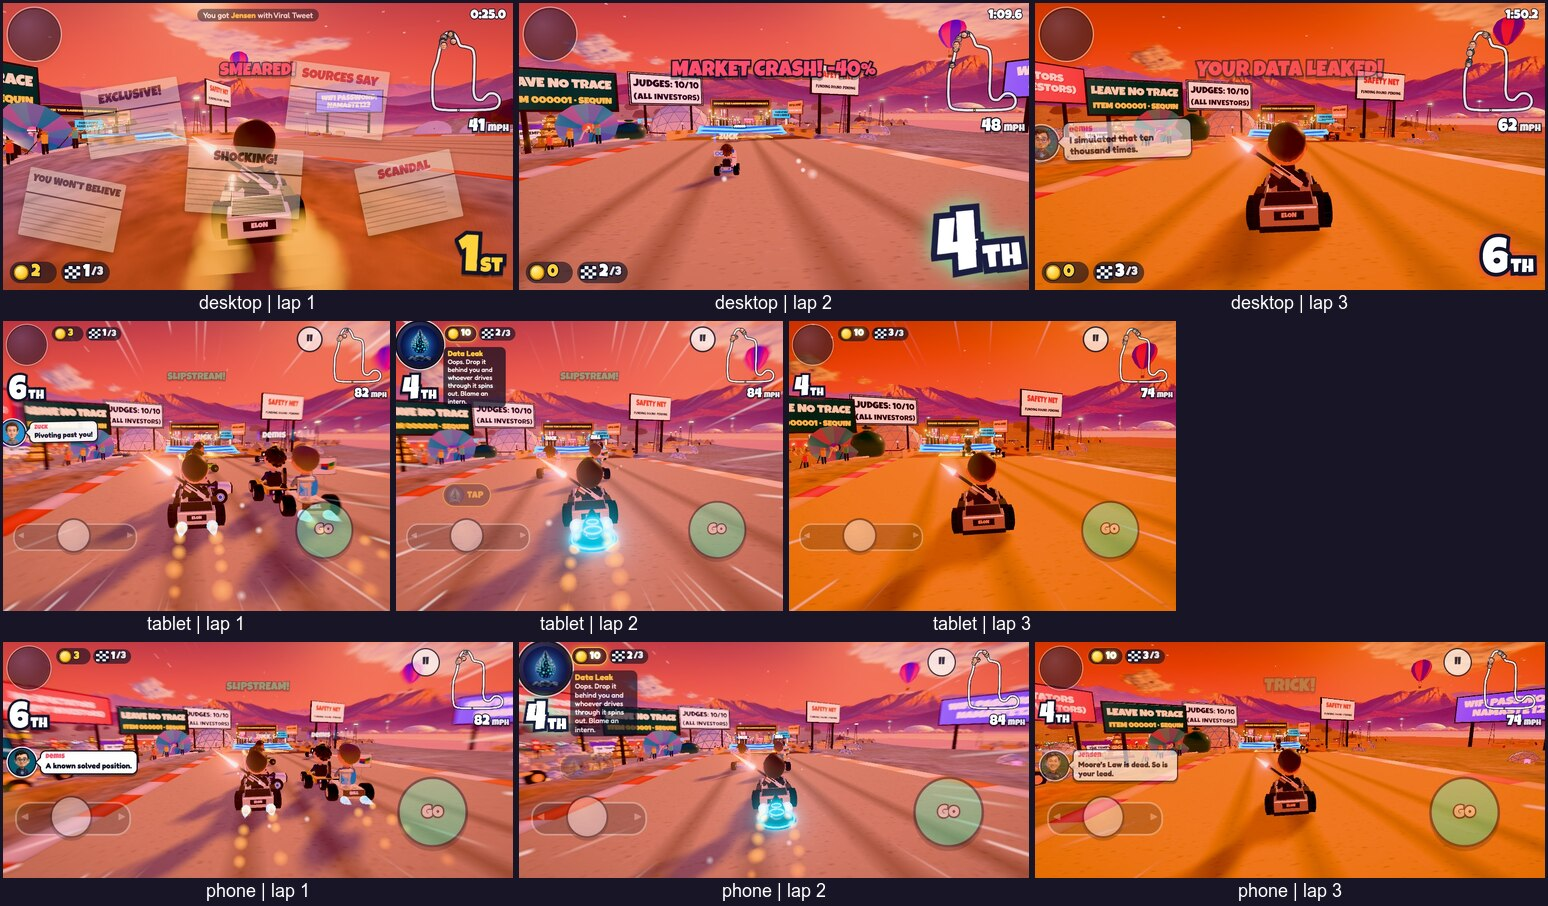
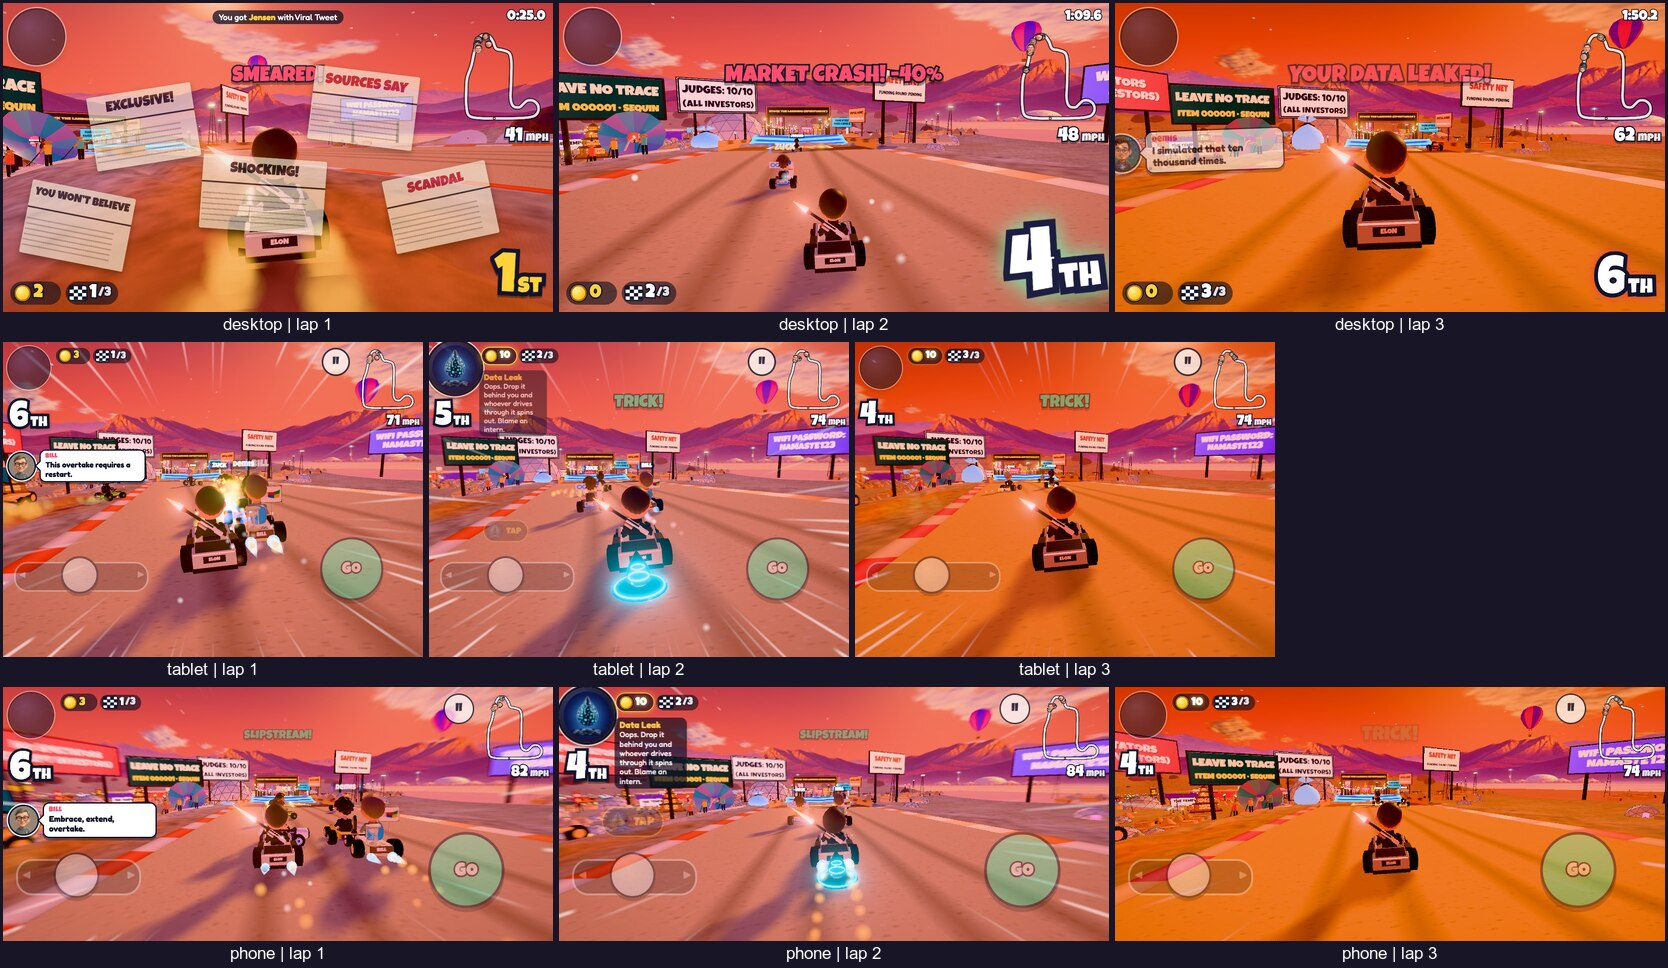
Give the playa cleanup sack a distinct tied silhouette (#301)

diff --git a/src/models/props-burning-circuit.js b/src/models/props-burning-circuit.js
@@ -675,11 +675,17 @@ export function cleanupSequin() {
 /** The collection sack's origin is on the dust, so it can fill from the bottom. */
 export function cleanupSack() {
   const b = new ModelBuilder();
-  b.add('sack', lathe([[0, 0], [1.45, 0.05], [1.9, 0.62], [2.04, 1.95],
-    [1.67, 3.13], [0.53, 3.75], [0.24, 3.95], [0.65, 4.25], [0.41, 4.42]], 9));
-  b.add('tie', torus(0.31, 0.085, 6, 10), { p: [0, 3.93, 0], r: [Math.PI / 2, 0, 0] });
-  strut(b, 'tie', [0.18, 3.95, 0.1], [0.65, 3.52, 0.1], 0.075);
-  return b.build({ sack: paint(0x20615f, { rough: 0.61, metal: 0.05 }), tie: plastic(0xf5c549) });
+  // Slumping shoulders pinch into a narrow neck. The two loose corners above
+  // the knot break the silhouette of a round ball, even from the kart.
+  b.add('sack', lathe([[0, 0], [1.45, 0.06], [1.98, 0.62], [2.02, 1.62],
+    [1.66, 2.63], [0.95, 3.26], [0.27, 3.82], [0.25, 4.02]], 9));
+  for (const side of [-1, 1]) {
+    b.add('sack', cone(0.65, 1.15, 5), { p: [side * 0.36, 4.43, 0], r: [0.25, 0.1, Math.PI - side * 0.61] });
+    strut(b, 'tie', [0.05, 3.93, 0.23], [side * 0.87, 3.49, 0.32], 0.15);
+  }
+  b.add('tie', torus(0.3, 0.135, 6, 10), { p: [0, 3.92, 0], r: [Math.PI / 2, 0, 0] });
+  return b.build({ sack: new THREE.MeshStandardMaterial({ color: 0xa1d2ed, emissive: 0x79a6da,
+    emissiveIntensity: 0.46, roughness: 0.85 }), tie: plastic(0x332637, 0.88) });
 }
 
 export function cleanupWorker(tint) {

diff --git a/src/tracks/burning-circuit.js b/src/tracks/burning-circuit.js
@@ -715,7 +715,7 @@ export default {
       const placard = spot(-2.9, -4.3);
       signAt(placard.x, placard.z, yaw, B.board('LEAVE NO TRACE', { bg: '#163a39', fg: '#fff7dd',
         sub: 'ITEM 000001 · SEQUIN', subFg: '#ffda65', subScale: 0.84, pad: 0.035, lines: 1 }), 11.5, 4.6, 8.5, { y: placard.y });
-      const bag = B.cleanupSack(), bagSpot = spot(4.1, -0.6);
+      const bag = B.cleanupSack(), bagSpot = spot(7.4, -4.2);
       sc.place(bag, bagSpot.x, bagSpot.z, { yaw, y: bagSpot.y, cast: false });
       let lastFill = 0;
       anim.push(() => {
